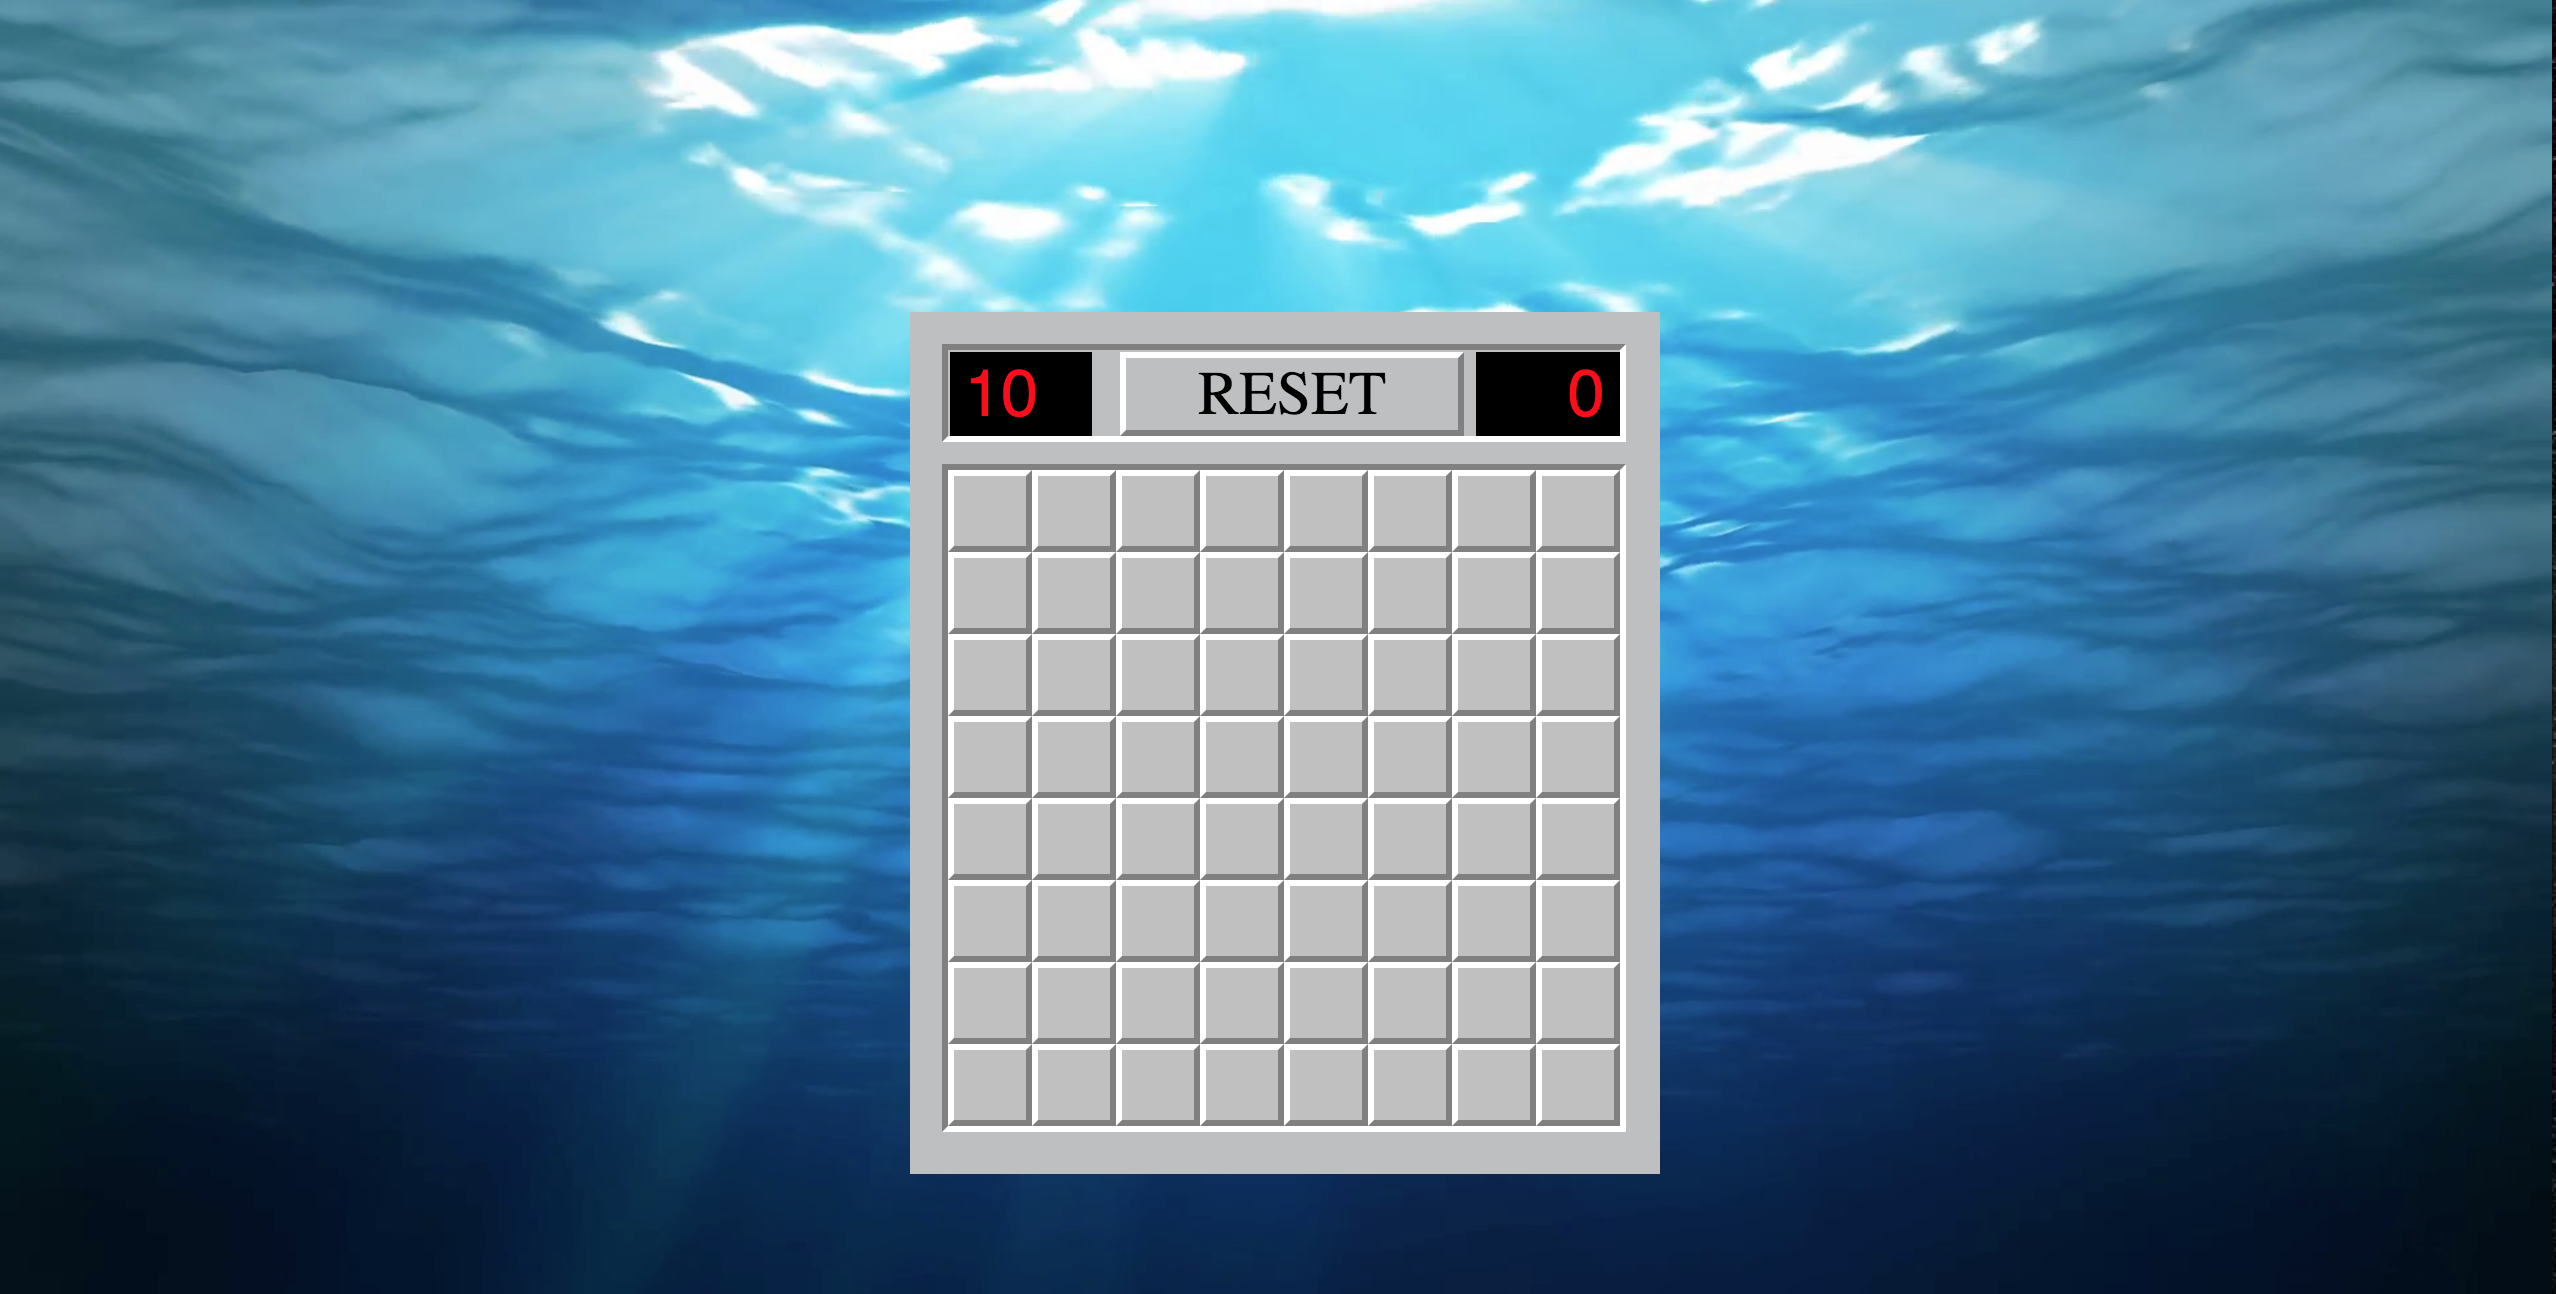
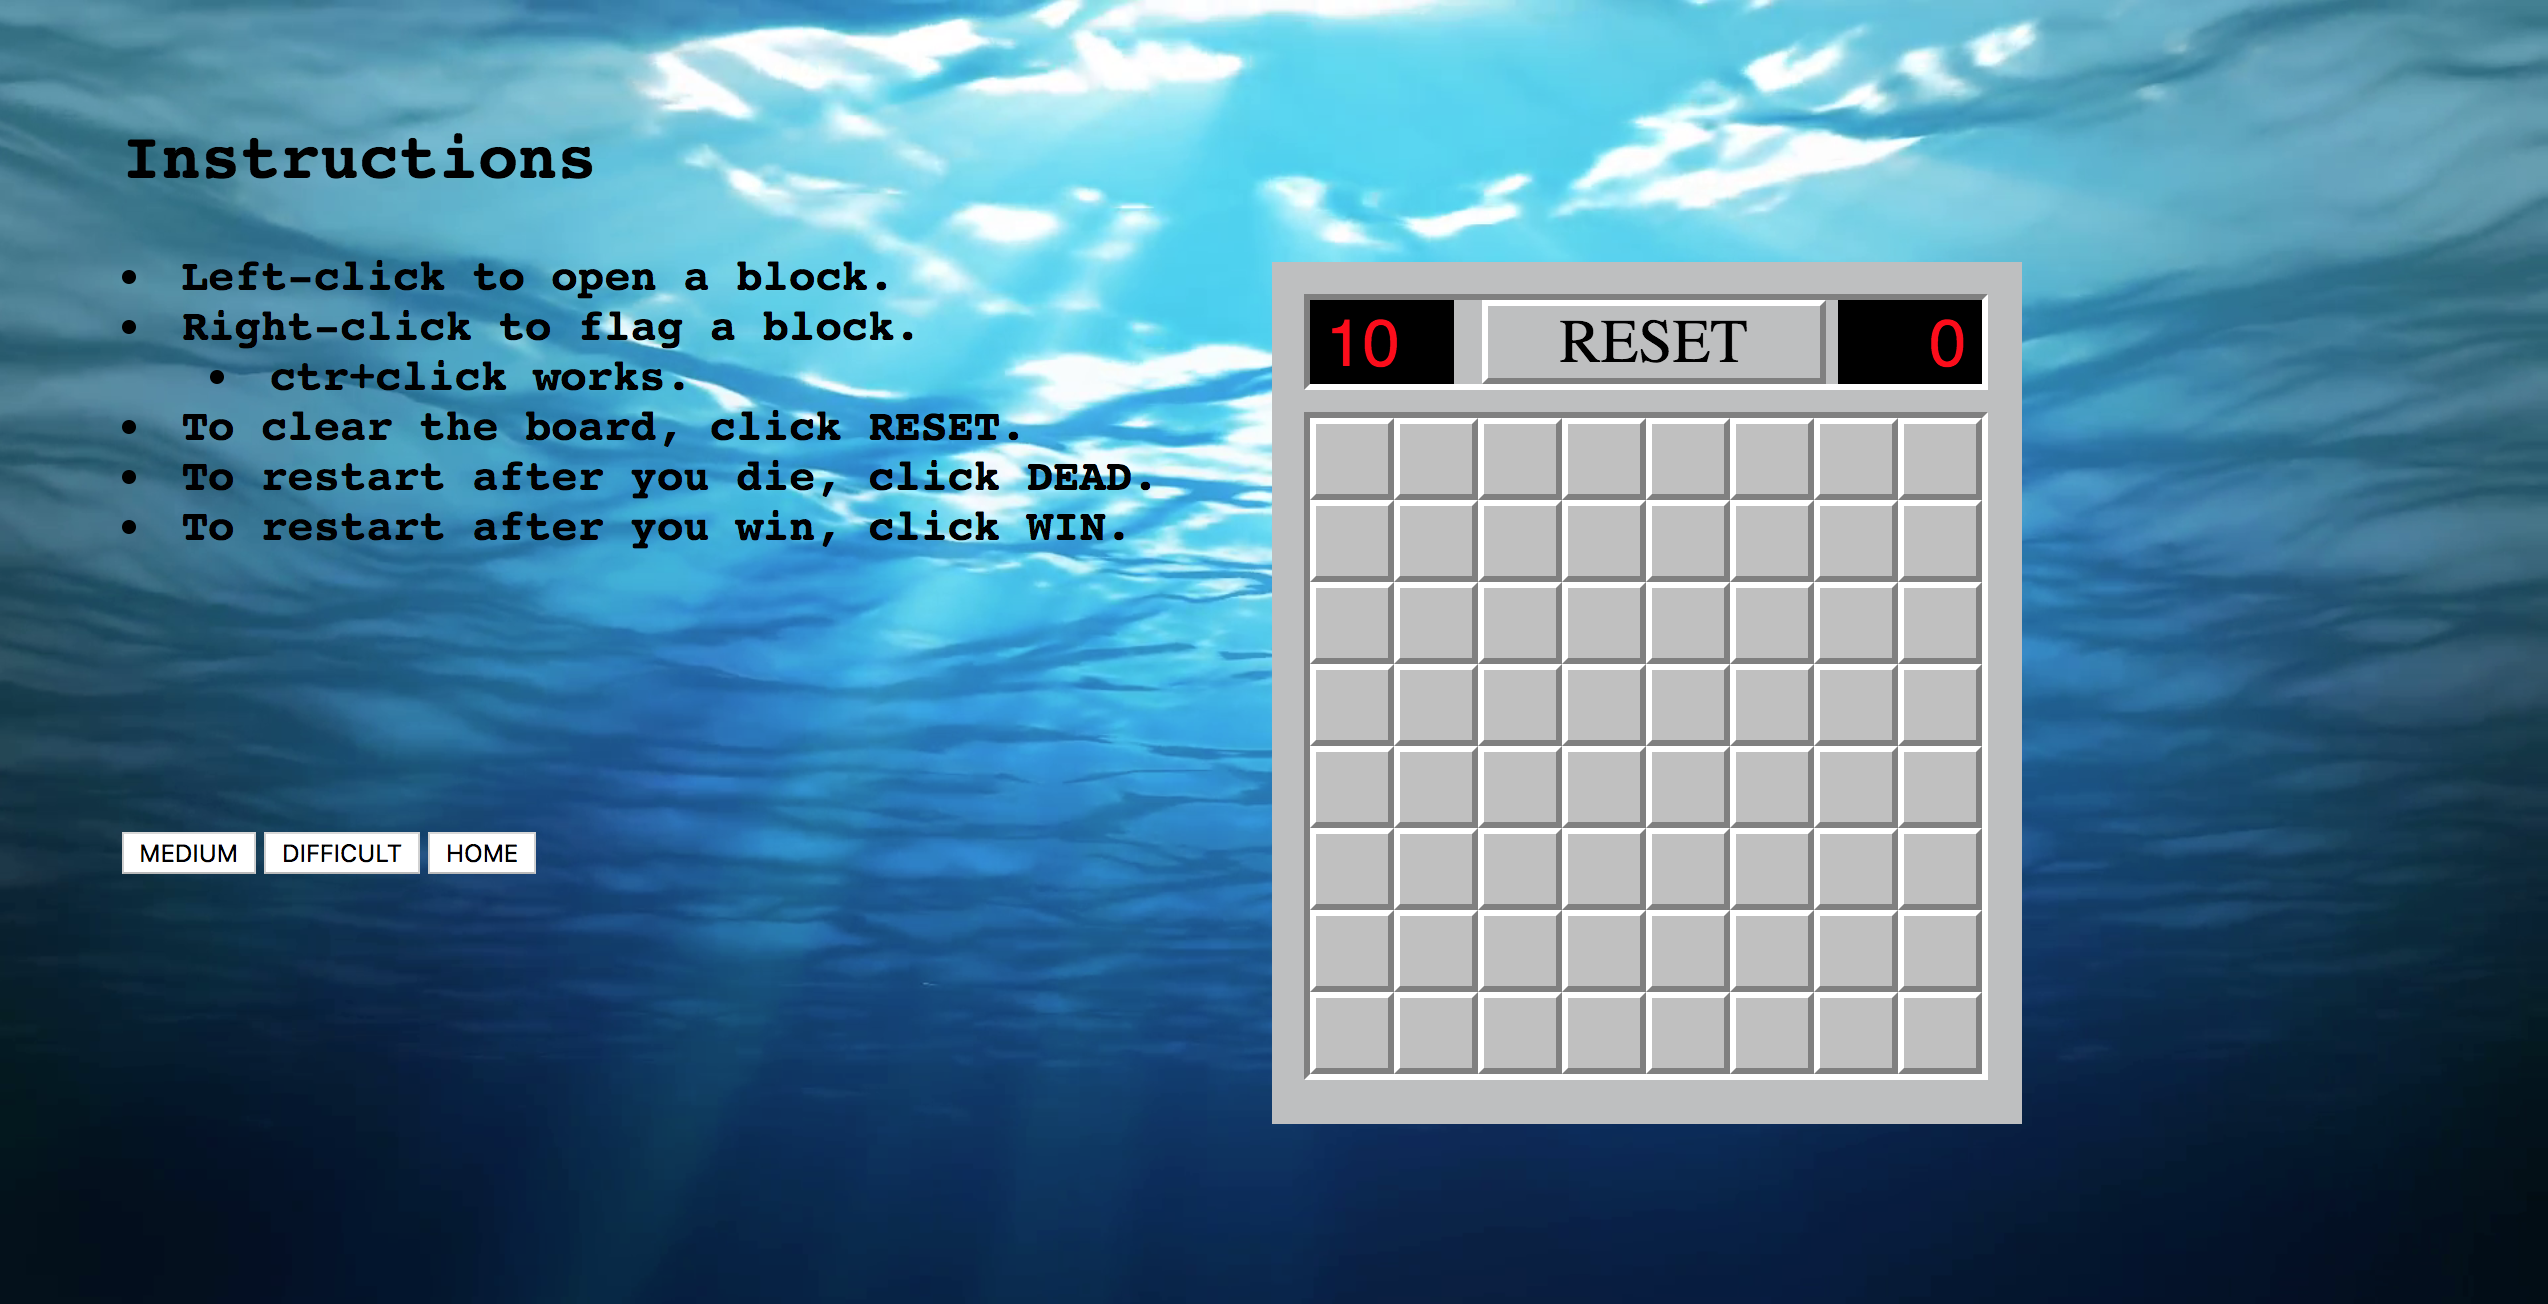
added easy demo

diff --git a/easy.html b/easy.html
@@ -6,10 +6,17 @@ body {
   background-image: url(./ocean4.png);
   background-repeat: no-repeat;
   background-size: cover;
-  position: fixed; /* or absolute */
+/*  position: fixed; 
   top: 20%;
-  left: 35%;
+  left: 35%; */
 }
+li{
+  color:black;
+  font: bold 20px monospace;
+}
+h2{
+  color:black;
+  font: bold 30px monospace;
 mine-count {
     margin: 0;
     top: 50%;
@@ -30,7 +37,21 @@ float: left;
       <p>Misclicks: <span id="misclick-counter">0</span></p>
     </div> -->
   </div>
-  <p style="font-size:60px"> Instructions </p>
+  <div id="instruction" style="position:absolute; left:5%; top:5%;">
+  <h2>Instructions </h2>
+  <u1>
+  <li>Left-click to open a block. </li>
+  <li>Right-click to flag a block. 
+  <dd><li> ctr+click works. </li></dd> </li>
+  <li>To clear the board, click RESET.</li>
+  <li>To restart after you die, click DEAD.</li>
+  <li>To restart after you win, click WIN.</li>
+  </u1>
+  <br><br><br><br><br><br><br>
+  <button onclick="location.href='medium.html';"> MEDIUM </button>
+   <button onclick="difficult.html"> DIFFICULT </button>
+   <button  onclick="location.href='frontpage.html';" > HOME </button>
+  </div>
   <script src='jquery-1.11.1.min.js'></script>
   <script src='minesweeper.js'></script>
   

diff --git a/minesweeper.js b/minesweeper.js
@@ -11,6 +11,7 @@ var Minesweeper = function(containerId) {
   //this.BUBBLE = BUBBLE;
   this.MINE = '\uD83D\uDCA3'; // bomb emoji
   this.FLAG = '\uD83D\uDEA9'; // triangle flag emoji
+  this.BEST_TIME = 0;
   this.MAX_TIME = 999;
   this.SETTINGS = {
     BEGINNER: {
@@ -464,7 +465,7 @@ Minesweeper.prototype.startTimer = function() {
  */
 Minesweeper.prototype.displayWin = function() {
   this.won = true;
-  this.controlPanel.resetButton.html('\uD83D\uDE0E');
+  this.controlPanel.resetButton.html('WIN');
   clearInterval(this.timeInterval);
 };
 
@@ -474,7 +475,7 @@ Minesweeper.prototype.displayWin = function() {
 Minesweeper.prototype.displayLoss = function() {
   if (this.lost) return;
   this.lost = true;
-  this.controlPanel.resetButton.html('\uD83D\uDE35'); // dizzy face emoji
+  this.controlPanel.resetButton.html('DEAD'); // dizzy face emoji
   clearInterval(this.timeInterval);
   for (var r = 0; r < this.field.length; r++) {
     for (var c = 0; c < this.field[0].length; c++) {

diff --git a/minesweeper.css b/minesweeper.css
@@ -1,5 +1,8 @@
 #minesweeper-main {
   display: flex;
+position: fixed; /* or absolute */
+  top: 20%;
+  left: 50%;
 }
 
 #game-container {
